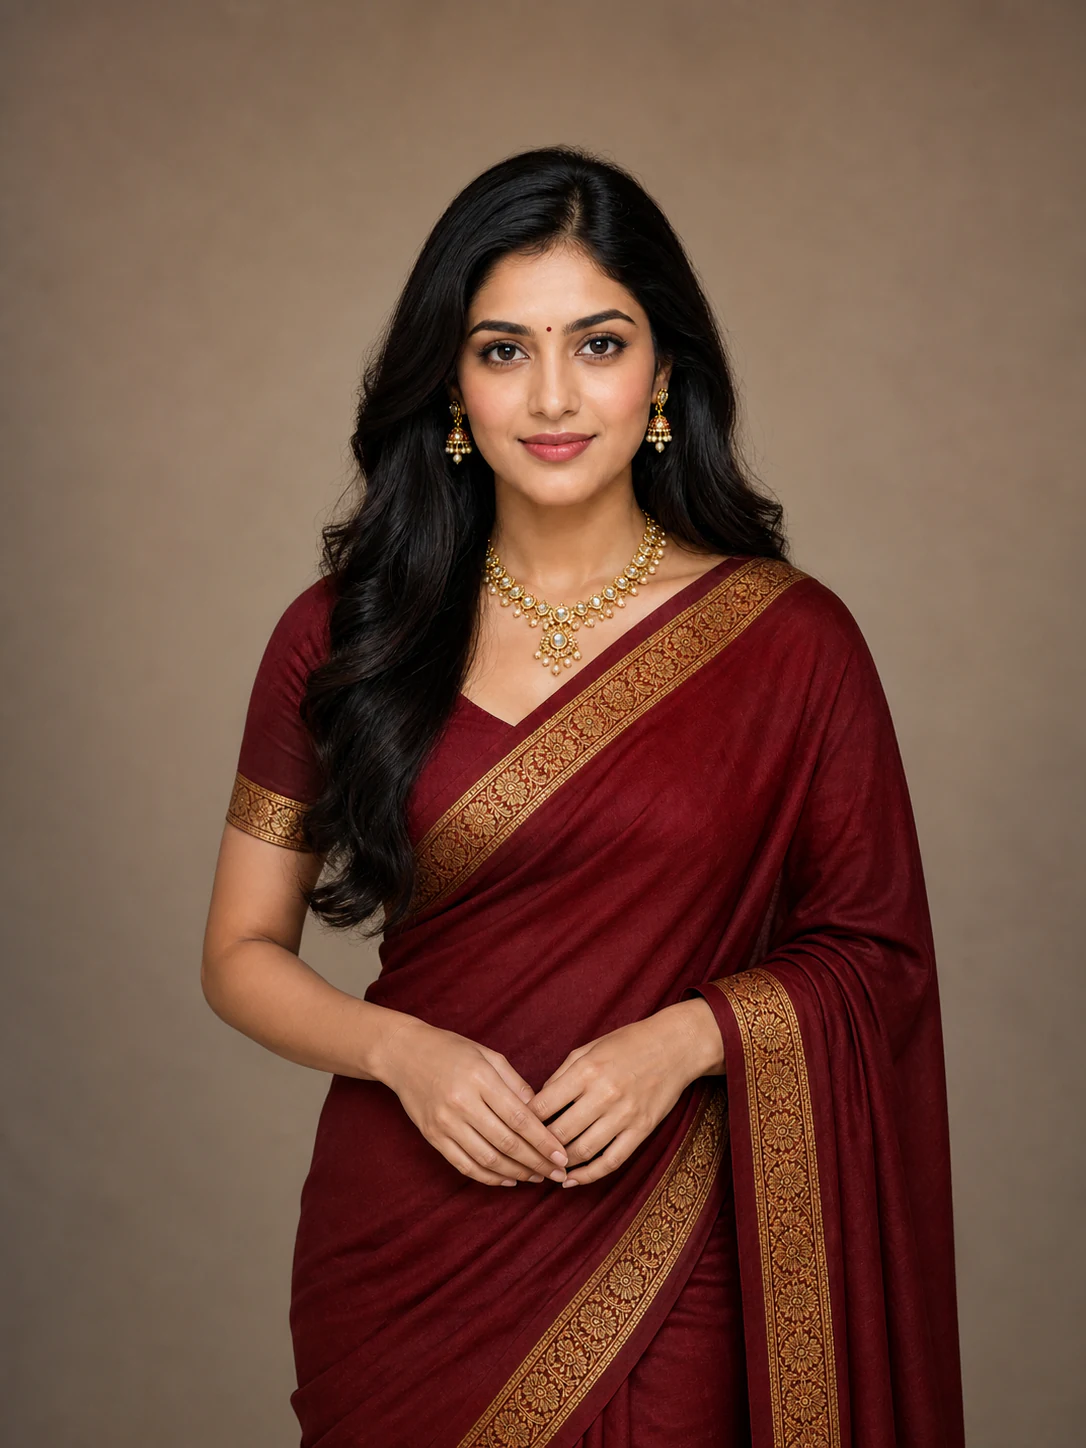
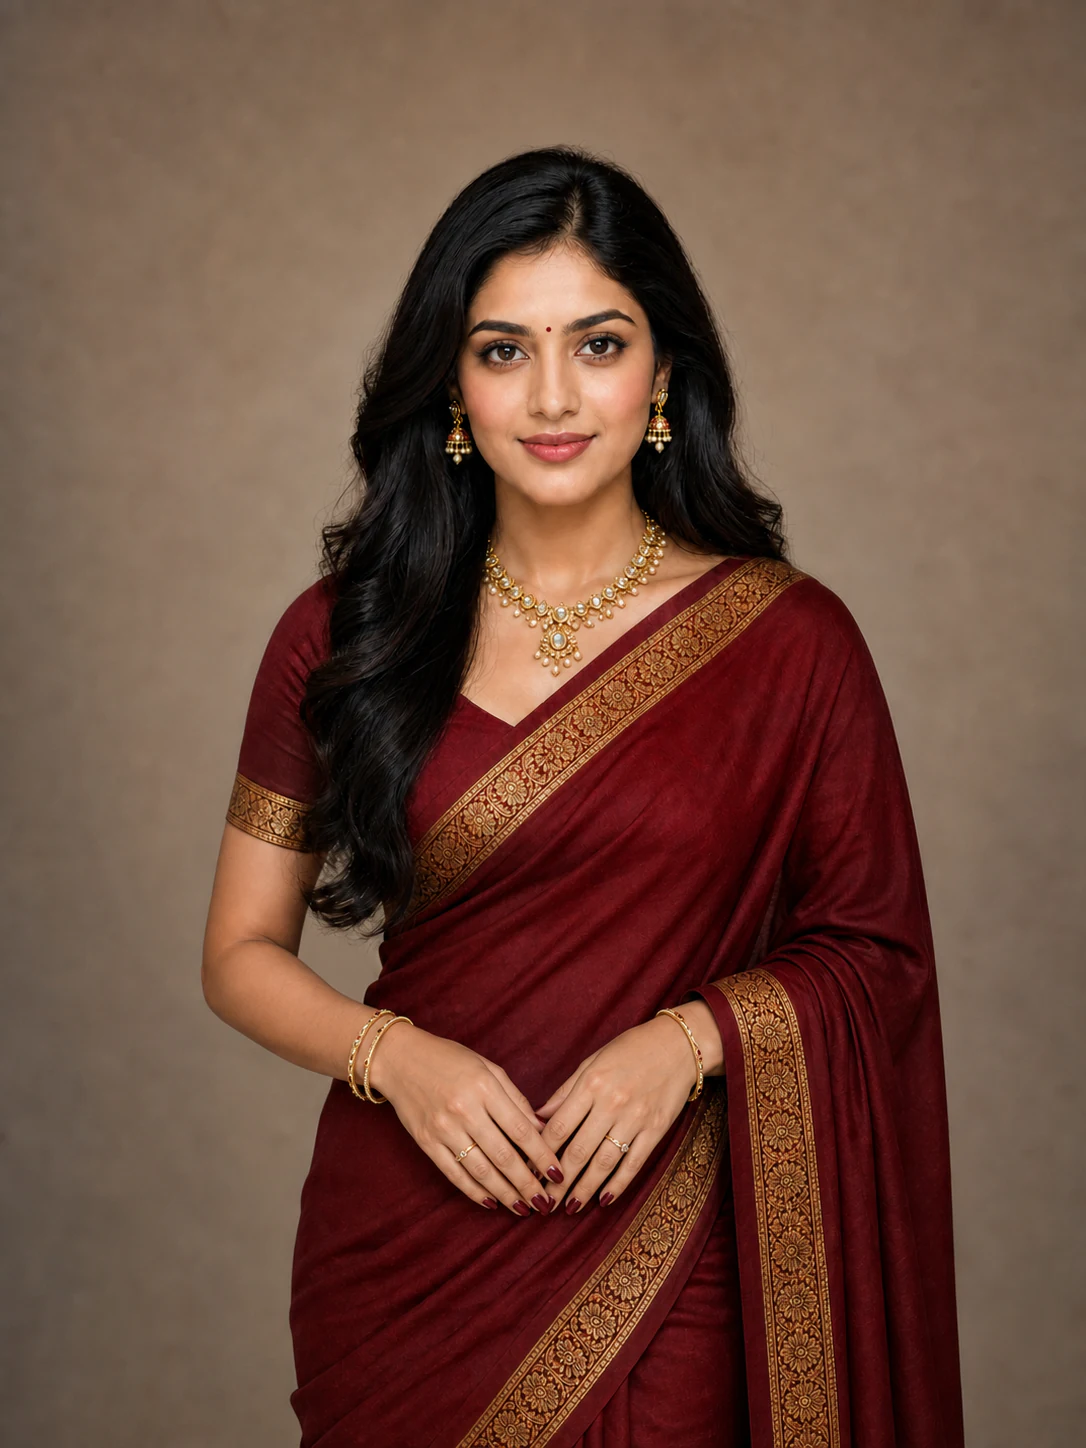
fix: refine Myra presenter continuity
Use the owner-authorized second and final Myra edit to align hand lighting, gesture, nail polish, bangles, and rings with the frozen persona while preserving Raj, all originals, the source registry, and T04 authority.

diff --git a/tests/unit/test_cut1_presenter_derivatives.py b/tests/unit/test_cut1_presenter_derivatives.py
@@ -44,11 +44,11 @@ SOURCE_ASSETS = {
 DERIVATIVES = {
     "myra": (
         "frontend/public/demo/cut1/myra-waist-up.webp",
[2 lines of base64/hex data omitted]
         1086,
         1448,
-        149_374,
[1 lines of base64/hex data omitted]
+        150_246,
[1 lines of base64/hex data omitted]
     ),
     "raj": (
         "frontend/public/demo/cut1/raj-waist-up.webp",
@@ -363,6 +363,24 @@ def test_binding_keeps_source_registry_and_derivative_authorities_distinct() -> 
         lambda data: _row(data, "raj")["candidate"].update({"sha256": "3" * 64}),
         lambda data: _row(data, "raj")["candidate"].update({"attempt_count": 2}),
         lambda data: _row(data, "raj")["candidate"].update({"retry_count": 1}),
+        lambda data: _row(data, "myra")["candidate"].update(
+            {"sha256": MYRA_ATTEMPT1_SHA256}
+        ),
+        lambda data: _row(data, "myra")["candidate"].update({"attempt_count": 1}),
+        lambda data: _row(data, "myra")["candidate"].update({"max_attempts": 3}),
+        lambda data: _row(data, "myra")["candidate"].update({"retry_count": 0}),
+        lambda data: _row(data, "myra")["review"].update(
+            {"reviewed_candidate_sha256": MYRA_ATTEMPT1_SHA256}
+        ),
+        lambda data: _row(data, "myra")["review"].update(
+            {
+                "authority_ref": "https://github.com/imrohitagrawal/narratwin-ai/"
+                "issues/459#issuecomment-5463568867"
+            }
+        ),
+        lambda data: _row(data, "myra")["rights"].update(
+            {"rejected_candidate_disposition": "NONE_REJECTED_ONE_ATTEMPT_USED"}
+        ),
         lambda data: _row(data, "raj")["asset"].update({"path": "../escape.webp"}),
         lambda data: _row(data, "raj")["asset"].update({"sha256": "4" * 64}),
         lambda data: _row(data, "raj")["asset"].update({"width": 2048}),

diff --git a/tests/unit/test_stage8_cut1_routes.py b/tests/unit/test_stage8_cut1_routes.py
@@ -1556,6 +1556,10 @@ def test_issue459_t03_route_freezes_authority_scope_and_budgets() -> None:
[1 lines of base64/hex data omitted]
     assert routes.ISSUE459_T03_DEPENDENCY_COMMENT == "5464081073"
[1 lines of base64/hex data omitted]
+    assert routes.ISSUE459_T03_MYRA_CORRECTION_COMMENT == "5464690216"
+    assert routes.ISSUE459_T03_MYRA_CORRECTION_SHA256 == (
[1 lines of base64/hex data omitted]
+    )
     assert routes.ROUTES[branch] == ISSUE459_T03_EXPECTED
     assert routes.ROUTE_ISSUES[branch] == 459
     assert routes.TOTAL_LIMITS[branch] == 2400
@@ -1601,6 +1605,7 @@ def test_issue459_t03_rejects_authority_rename_and_binary_boundary(
         routes.ISSUE459_T03_AUTHORITY_SHA256,
         routes.ISSUE459_T03_CORRECTION_SHA256,
         routes.ISSUE459_T03_DEPENDENCY_SHA256,
+        routes.ISSUE459_T03_MYRA_CORRECTION_SHA256,
     ):
         drifted = copy.deepcopy(artifact)
         drifted["objective"] = drifted["objective"].replace(authority_sha256, "0" * 64)

diff --git a/scripts/quality/stage8_cut1_routes.py b/scripts/quality/stage8_cut1_routes.py
@@ -60,6 +60,8 @@ ISSUE459_T03_CORRECTION_COMMENT = "5463979365"
[1 lines of base64/hex data omitted]
 ISSUE459_T03_DEPENDENCY_COMMENT = "5464081073"
[1 lines of base64/hex data omitted]
+ISSUE459_T03_MYRA_CORRECTION_COMMENT = "5464690216"
[1 lines of base64/hex data omitted]
 SECURITY_PREFLIGHTS = {
[2 lines of base64/hex data omitted]
@@ -1407,6 +1409,8 @@ def check_exact_route(
                 ISSUE459_T03_CORRECTION_SHA256,
                 ISSUE459_T03_DEPENDENCY_COMMENT,
                 ISSUE459_T03_DEPENDENCY_SHA256,
+                ISSUE459_T03_MYRA_CORRECTION_COMMENT,
+                ISSUE459_T03_MYRA_CORRECTION_SHA256,
             )
             failures.extend(
                 f"Issue #459 T03 governance preflight failed: {finding.code}"

diff --git a/backend/app/presenter_registry.py b/backend/app/presenter_registry.py
@@ -25,7 +25,7 @@ SHA256_PATTERN = re.compile(r"^[0-9a-f]{64}\Z")
[2 lines of base64/hex data omitted]
 CANONICAL_DERIVATIVE_MANIFEST_SHA256 = (
[2 lines of base64/hex data omitted]
 )
 CANONICAL_ASSETS = {
     "meera": ("frontend/public/demo/narratwin-synthetic-presenter.webp",

diff --git a/docs/THIRD_PARTY_NOTICES.md b/docs/THIRD_PARTY_NOTICES.md
@@ -310,17 +310,27 @@ before any later experiment.
 
 ## Issue #459 T03 controlled-local presenter derivatives
 
-Issue #459 uses OpenAI's built-in `gpt-image-2.0` image-edit capability to make
-one private Raj candidate and one private Myra candidate from project-owned
-fictional synthetic identity anchors. Each accepted candidate used one attempt
-and no retry. The private PNG sources are excluded from Git and retained only
-for owner cleanup after merge; no rejected candidate exists. Exact source,
-candidate, output, conversion, review, rights, privacy, and deletion records are
-in `docs/governance/cut1-presenter-derivatives-v1.json`.
+Issue #459 uses OpenAI's built-in `gpt-image-2.0` image-edit capability on
+project-owned fictional synthetic identity anchors. Raj used one accepted
+attempt. Myra used the authorized maximum of two attempts: owner review
+superseded attempt 1 for hand lighting, gesture, coordinated jewelry, and
+deep-maroon nail-polish continuity; attempt 2 passed independent visual,
+provenance, and privacy review. No third attempt is authorized. The private PNG
+sources are excluded from Git and retained only for owner cleanup after merge.
+Exact source, candidate, output, conversion, review, rights, privacy, and
+deletion records are in
+`docs/governance/cut1-presenter-derivatives-v1.json`.
 
 Accepted repository outputs are metadata-stripped WebPs for controlled local
 Cut 1 use only. Independent review found no real-person reference, text, logo,
-watermark, identity substitution, anatomy defect, or conversion-induced drift.
+watermark, identity substitution, blocking anatomy defect, or
+conversion-induced drift. Myra attempt 2 is private SHA-256
[1 lines of base64/hex data omitted]
+its generated PNG contains C2PA provenance identifying `gpt-image 2.0`, trained
+algorithmic media, and OpenAI Media Service. The metadata-stripped WebP is
+SHA-256
[1 lines of base64/hex data omitted]
+1086×1448, and 150246 bytes.
 Pillow `12.3.0` under the MIT-CMU license is installed only in the development
 dependency group to decode one complete frame from each frozen WebP during
 tests and to reject a structurally plausible WebP with corrupted VP8 pixels.

diff --git a/docs/TRACEABILITY.md b/docs/TRACEABILITY.md
@@ -710,4 +710,4 @@ remain separate gates.
 | Hosted-prerequisite transition | PR `#461` main `285458f2`, authority comment `5460884573`, exact merge `b569e0b`, dual frozen/active route mutation tests | T04 source/history stays immutable; Issue `#460` paths are not transferred or charged; missing objects, ancestry/parent drift, unauthorized paths, rename/copy drift, and budget excess fail closed |
 | Hosted push/security convergence | Comments `5461065184`/`5461070398`, exact four-fingerprint checker, real-secret canary, pinned Issue #459 push-base regression | Frozen route remains 19 paths; active route is exactly 24; no wildcard/history skip or prerequisite ownership transfer |
 | T03 transition inventory | OWNER comment `5451872197`; Meera `SOURCE_READY_NO_DERIVATIVE`; exact Raj/Myra-only derivative paths | Originals remain immutable; repository activation waits for visual and independent provenance/privacy review |
-| T03 derivative readiness | OWNER checkpoint `5463568867`; immutable derivative manifest; exact Raj/Myra WebP hashes; additive registry loader/binding; focused mutation and media tests; independent visual/provenance/privacy review | Source registry, originals and T04 freeze remain unchanged; controlled-local still-image readiness only, with no provider, audio/video, publication, acceptance, release or production authority |
+| T03 derivative readiness | OWNER checkpoints `5463568867` and `5464690216`; immutable derivative manifest; exact Raj attempt-1 and Myra attempt-2 candidate/WebP hashes; owner-superseded Myra attempt-1 disposition; additive registry loader/binding; focused mutation/media tests; independent visual/provenance/privacy review | Source registry, originals, Raj derivative and T04 freeze remain unchanged; Myra's final attempt corrects hand lighting/gesture/jewelry/nails for controlled-local still-image readiness only, with no third attempt, provider, audio/video, publication, acceptance, release or production authority |

diff --git a/docs/QUALITY_GATES.md b/docs/QUALITY_GATES.md
@@ -1645,7 +1645,8 @@ must satisfy the recorded stops before T03/T05/T06. Mock/stub/HTML/JSON and
 
 Exact branch `stage8-459-t03-presenter-derivatives` is pinned to accepted main
 `4ef3a8ba70cbf97b7704f5f589b0887f840081cb` and OWNER checkpoint
-`5463568867`. Its exact fourteen-path route allows 2,400 charged text lines and
+`5463568867`, with Myra attempt-2 correction checkpoint `5464690216`. Its exact
+seventeen-path route allows 2,400 charged text lines and
 two regular non-symlink WebPs, each strictly below 500,000 bytes. Missing or
 extra paths, wrong base/branch point, unavailable snapshots, authority/preflight
 drift, deletion/rename/copy drift, budget overrun, and binary boundary violations
@@ -1654,7 +1655,8 @@ fail closed.
 The focused gate proves original immutability, exact derivative hashes and
 dimensions, WebP decoding/container safety, Raj/Myra presenter binding, explicit
 Meera source-only readiness, T04/source-registry digest preservation, and exact
-privacy/provenance/deletion references:
+privacy/provenance/deletion references. It also binds Myra's maximum second
+attempt and owner-superseded attempt-1 disposition while Raj remains attempt 1:
 
 ```text
 uv run pytest -q tests/unit/test_cut1_presenter_derivatives.py tests/unit/test_cut1_presenter_registry.py tests/unit/test_cut1_controlled_presenter.py tests/unit/test_cut1_controlled_presenter_red.py

diff --git a/docs/STAGE_ISSUE_PLAN.md b/docs/STAGE_ISSUE_PLAN.md
@@ -43,8 +43,12 @@ PR `#462` merged the T04 controller and hosted-parity corrections at accepted
 main `4ef3a8ba70cbf97b7704f5f589b0887f840081cb`. OWNER checkpoint
 `5463568867` starts T03 on exact branch
 `stage8-459-t03-presenter-derivatives` with fourteen paths and a 2,400-line
-cap. Independent visual/provenance/privacy review accepted the one-attempt Raj
-and Myra candidates. Their bounded metadata-free WebPs are registered through a
+cap, later expanded to seventeen paths only for hosted decode and historical
+dependency-contract parity. Independent visual/provenance/privacy review
+accepted Raj attempt 1. OWNER correction checkpoint `5464690216` then
+authorized Myra's second and final attempt for hand lighting, gesture, jewelry,
+and nail-polish continuity; independent review accepted it and recorded attempt
+1 as owner-superseded. Their bounded metadata-free WebPs are registered through a
 separate derivative manifest and additive binding; the source registry, all
 three originals, and T04 authority stay byte-identical. T03 remains pending
 hosted parity, independent exact-head review, and PR approval/merge closeout.

diff --git a/docs/STATUS.md b/docs/STATUS.md
@@ -1736,7 +1736,11 @@ PR `#462` merged T04 and its inherited hosted-parity corrections at
 `4ef3a8ba70cbf97b7704f5f589b0887f840081cb`; merged-main Quality Gates run
 `33263170066` passed. OWNER checkpoint `5463568867` then opened the bounded T03
 branch `stage8-459-t03-presenter-derivatives`. Independent review accepted the
-one-attempt Raj/Myra candidates and their metadata-free bounded WebP conversions.
+Raj attempt-1 candidate and its metadata-free bounded WebP conversion. OWNER
+correction checkpoint `5464690216` authorized Myra's second and final attempt;
+independent visual/provenance/privacy review accepted the corrected hand
+lighting, graceful gesture, coordinated bangles/rings, and deep-maroon nails,
+and attempt 1 is recorded as owner-superseded visual refinement.
 The T03 candidate preserves the source registry, T04 controller, and all three
 original identity anchors while adding separate controlled-local derivative
 readiness/binding and explicit Meera `SOURCE_READY_NO_DERIVATIVE` state. Hosted

diff --git a/docs/ADR/0069-cut1-presenter-derivative-readiness-binding.md b/docs/ADR/0069-cut1-presenter-derivative-readiness-binding.md
@@ -2,7 +2,7 @@
 
 - Status: Accepted for Issue #459 T03 controlled-local readiness
 - Date: 2026-08-29
-- Decision owner: Issue #459 OWNER checkpoint `5463568867`
+- Decision owner: Issue #459 OWNER checkpoints `5463568867` and `5464690216`
 
 ## Context
 
@@ -38,3 +38,9 @@ acceptance, release, deployment, public availability, or production readiness.
 Private candidate PNGs remain outside Git pending owner cleanup after merge.
 Later narration, audio, rendering, and acceptance increments must consume the
 typed readiness/binding and satisfy their own reviewed gates.
+
+Owner visual review superseded only Myra attempt 1. The second and final
+authorized edit corrects hand lighting, gesture, coordinated jewelry, and nail
+polish while preserving Myra's source identity and the byte-identical Raj
+attempt-1 derivative. The manifest binds both the final candidate and the
+superseded-candidate disposition so attempt history cannot be silently erased.
